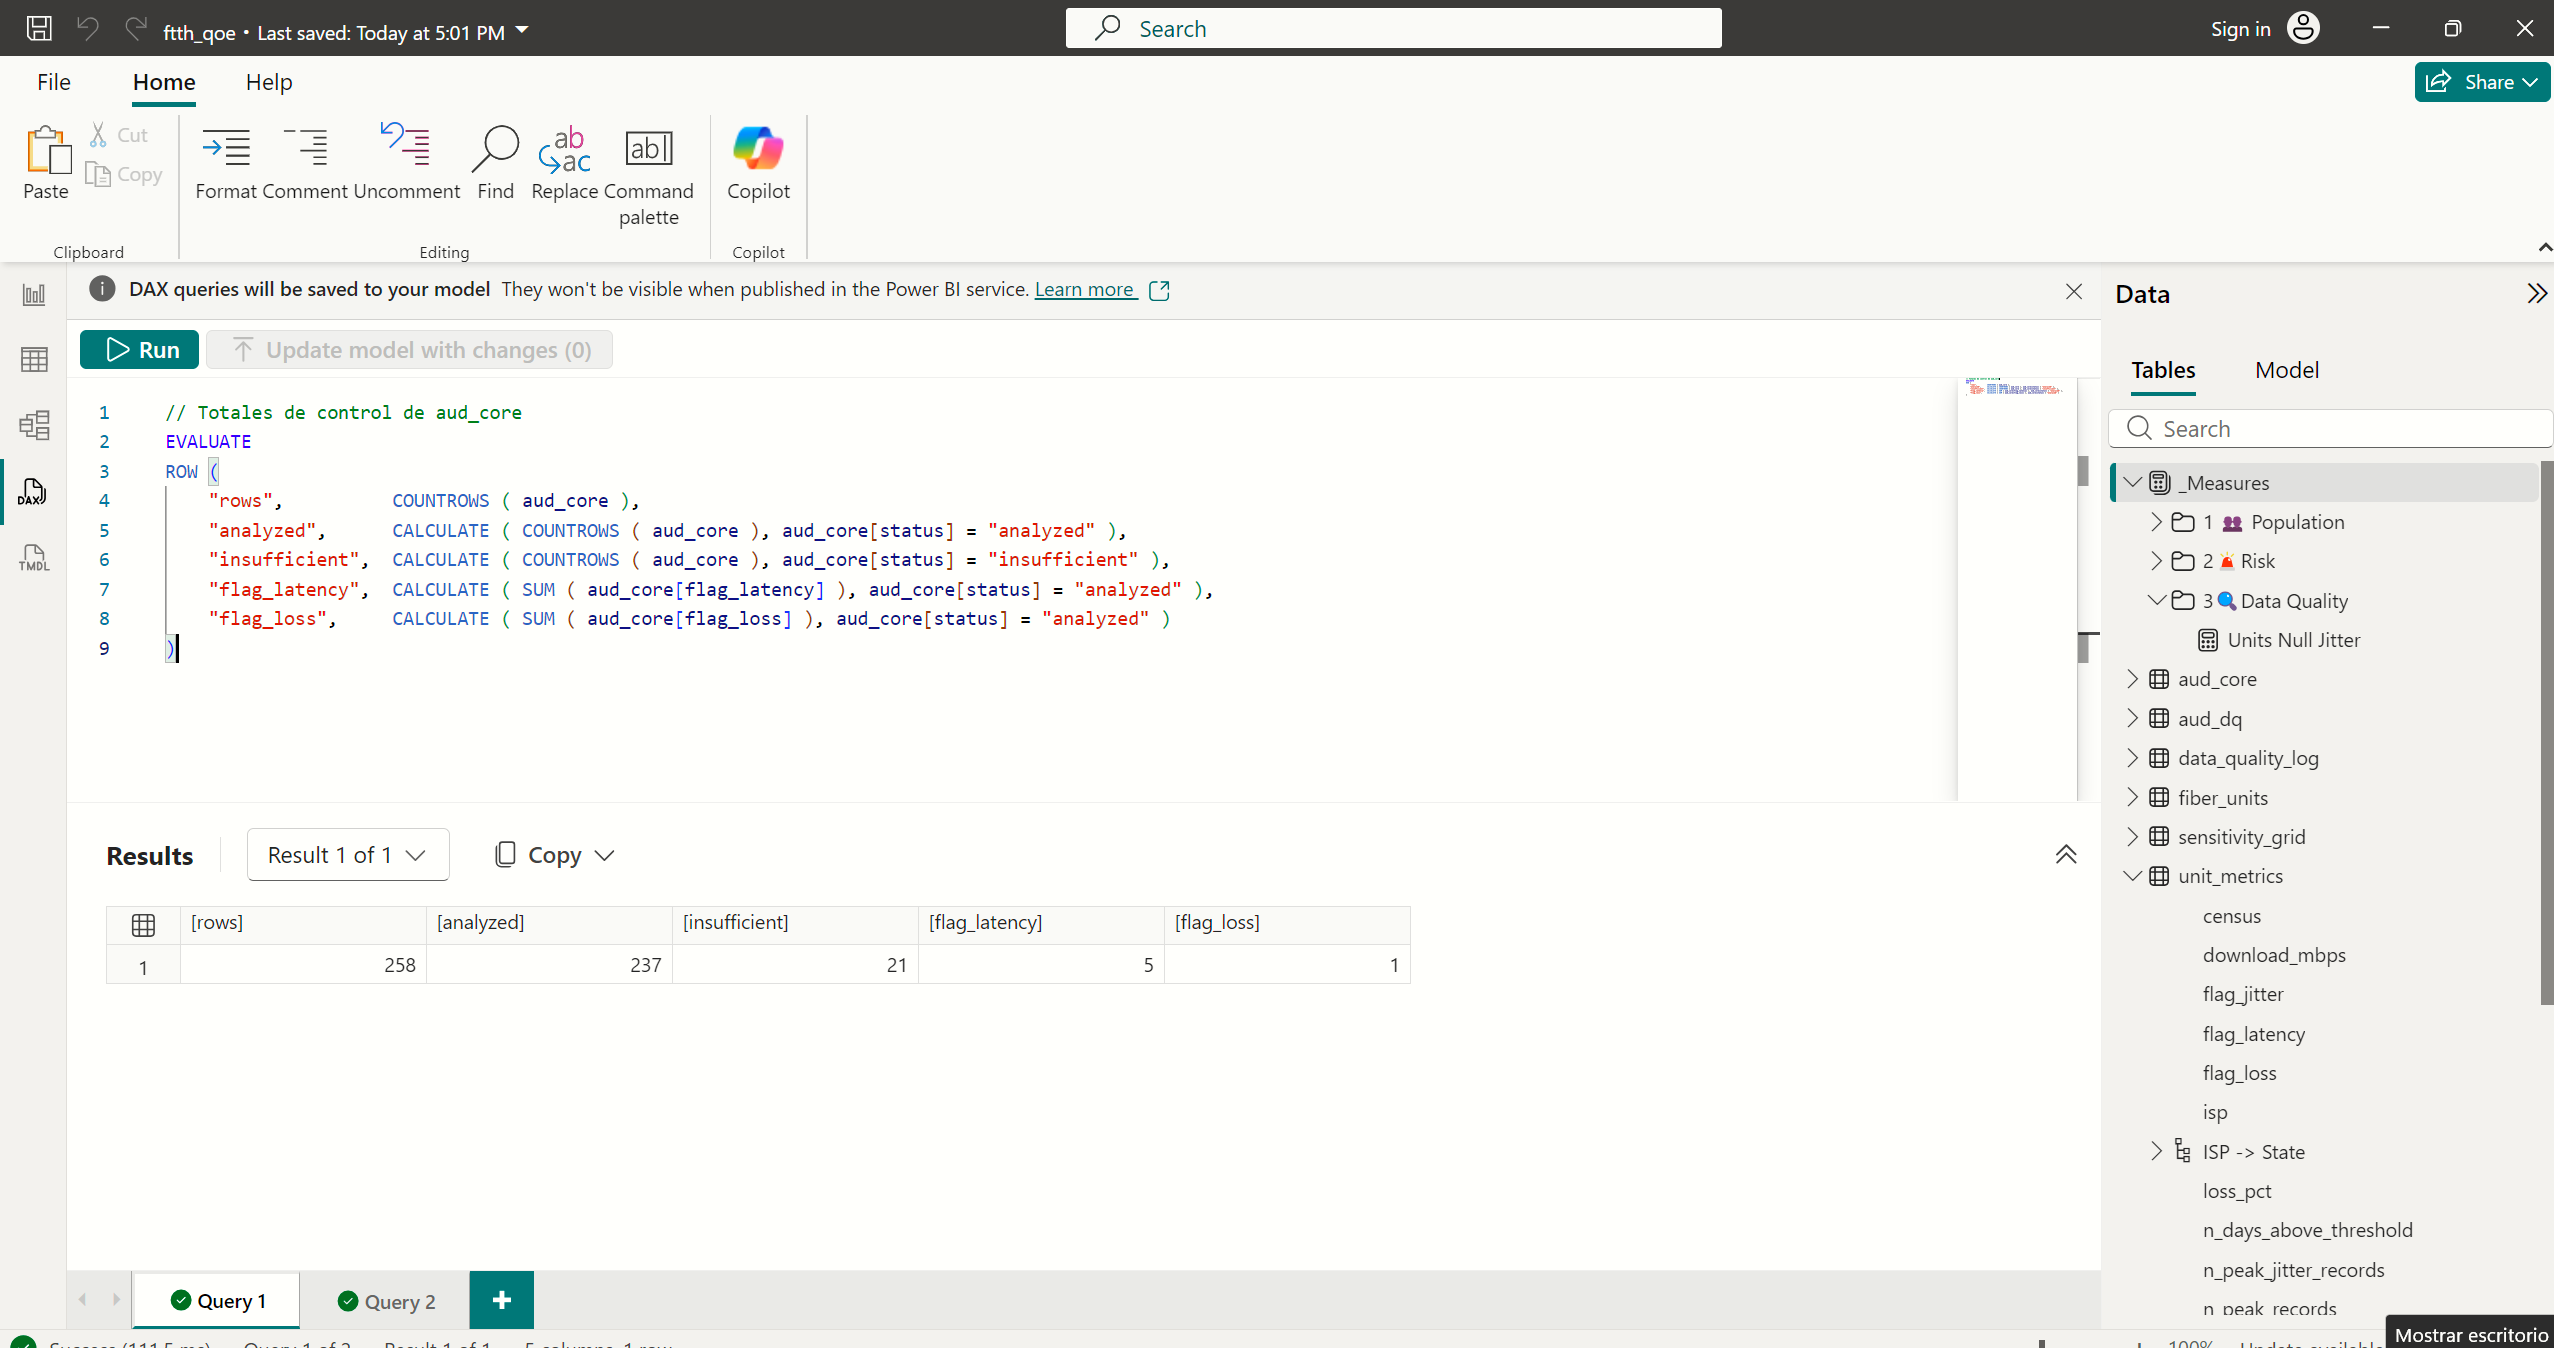
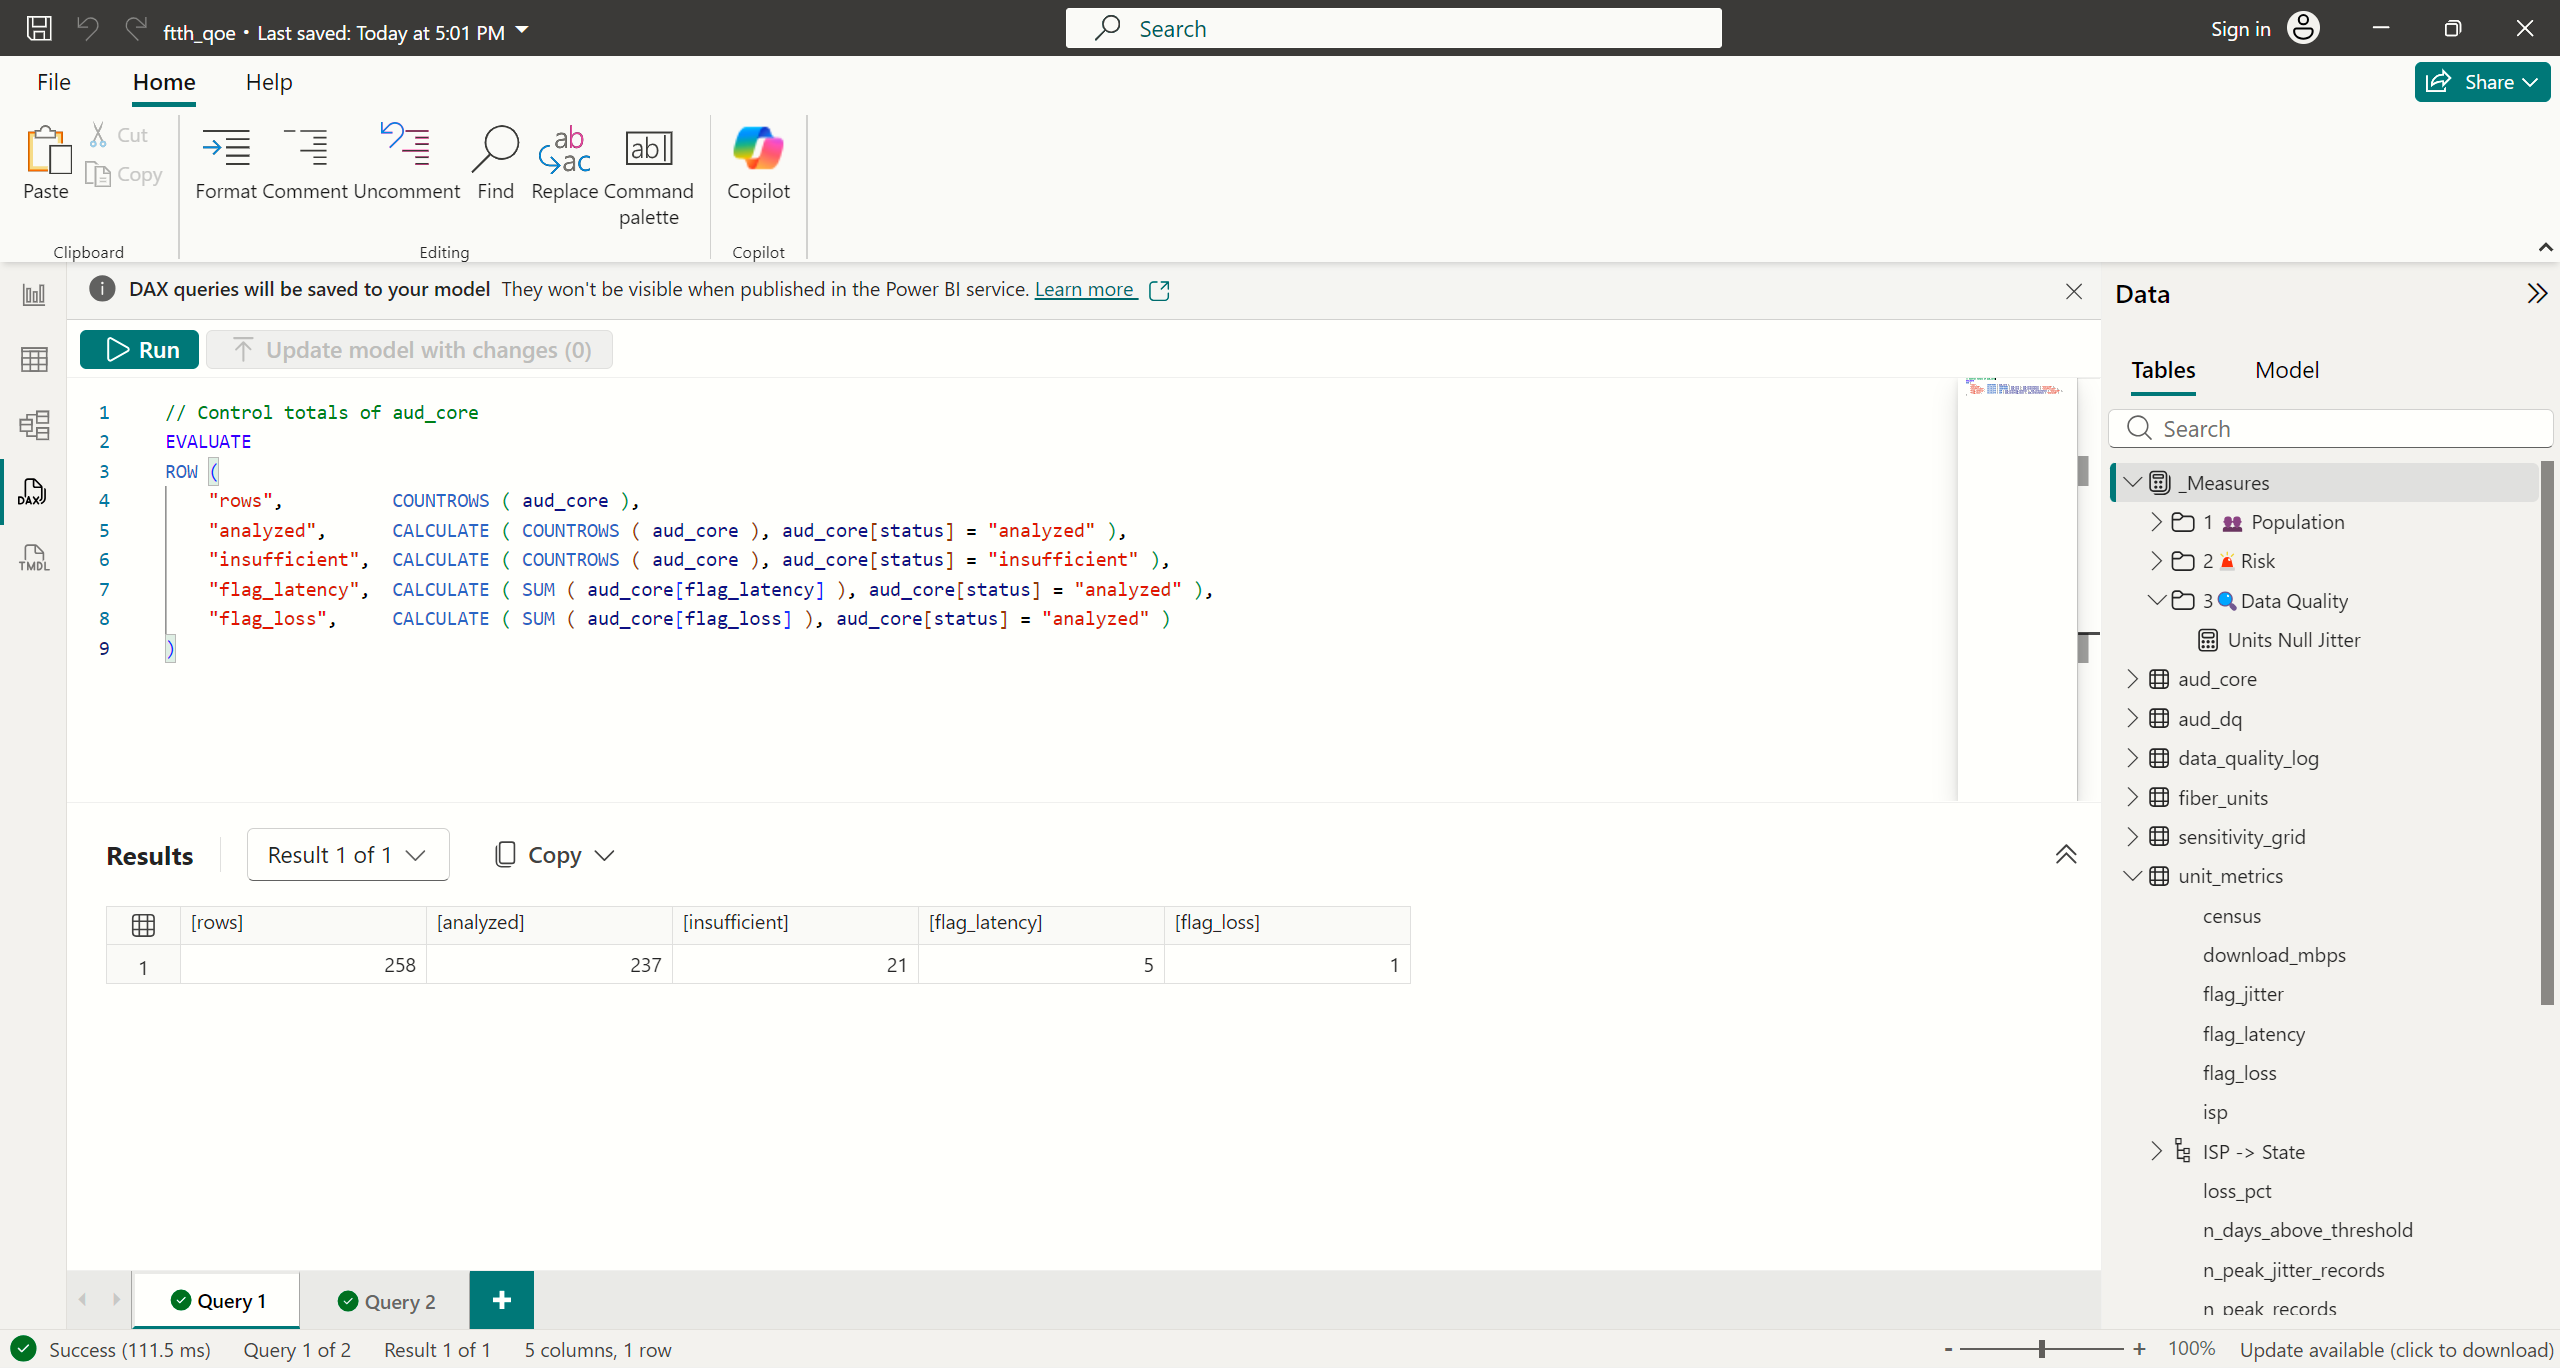
updated powerbi_implementation.md with evidence

diff --git a/docs/powerbi_implementation.md b/docs/powerbi_implementation.md
@@ -5,8 +5,8 @@ Living document. It records what was built in Power BI, the reason behind each s
 - **Tool:** Power BI Desktop 2.157.1354.0 (64-bit)
 - **Project file:** `powerbi/ftth_qoe.pbix`
 - **Last updated:** 2026-10-21
-- **Status:** Sessions 1-3 complete (load, model, base measures). Sessions 4A-4B complete (latency cleaning audit; peak window, primary server, P95 latency, loss, flags). Sessions 5-9 pending.
-- **Images:** `docs/img/powerbi/` (`01_unit_metrics_load.png`, `02_unit_metrics_null_jitter.png`, `03_model_view_flat.png`, `04_hierarchy_matrix.png`, `05_measures_check.png`, `06_audit_data_quality_check.png`, `07_audit_core_totals.png`, `08_audit_core_control_units.png`; numbered in order of appearance, matching Figures 1-8)
+- **Status:** Sessions 1-3 complete (load, model, base measures). Sessions 4A-5B complete (latency cleaning audit; peak window, primary server, P95 latency, loss; jitter cleaning, P95 jitter and minimum-records rule). Sessions 6-9 pending.
+- **Images:** `docs/img/powerbi/` (`01_unit_metrics_load.png`, `02_unit_metrics_null_jitter.png`, `03_model_view_flat.png`, `04_hierarchy_matrix.png`, `05_measures_check.png`, `06_audit_data_quality_check.png`, `07_audit_core_totals.png`, `08_audit_core_control_units.png`, `09_audit_jitter_dq_check.png`, `10_audit_jitter_conflicts.png`, `11_audit_units_totals.png`, `12_audit_units_jitter_controls.png`; numbered in order of appearance, matching Figures 1-12)
 
 ## 1. Role of Power BI in this project
 
@@ -218,7 +218,7 @@ Each query is created with *Home > New Source > Blank Query*, renamed in *Query 
 | `aud_lat_peak` | Peak window 19:00-22:59 (D-03) | No |
 | `aud_primary` | Primary server per unit (D-04, D-06) | No |
 | `aud_lat_metrics` | Records, P95 latency and loss on the primary server | No |
-| `aud_core` | Status (analyzed / insufficient) and flags per unit | Yes |
+| `aud_core` | Status (analyzed / insufficient) and flags per unit | Yes (until session 5B, see 8.2) |
 
 **`aud_lat_peak`**
 ```m
@@ -323,7 +323,207 @@ The threshold edge also behaves as specified: a unit with 49 peak records is `in
 
 **Result.** Power Query reproduces the pipeline totals and both control units. Per-unit differences, if any, are reported in session 7.
 
-## 8. Modelling notes
+## 8. Session 5 - Audit of jitter (Prepare the data)
+
+### 8.1 Session 5A - Jitter cleaning
+
+**Goal.** Rebuild the jitter cleaning of the pipeline (period, validity, duplicates D-05) from `data/interim/udpjitter_ftth.csv`, with the same staging design as 4A, and reconcile the row counts with the pipeline data-quality log. The same limits apply: the file is the output of `step_1.py`, the folder is gitignored, and step 1 itself is not audited.
+
+**Differences from latency.**
+- Validity rule: `jitter_up` and `jitter_down` must both be non-null and >= 0 (the latency rules on `rtt_avg`, successes and failures do not apply).
+- Unlike latency, jitter has one conflicting duplicate group (same key, different values), so `aud_jit_conflicts` is not empty.
+
+| Query | Logic | Loaded |
+| :--- | :--- | :-: |
+| `aud_jit_raw` | CSV read (UTF-8), headers promoted, explicit types with culture `en-US` | No |
+| `aud_jit_period` | `dtime` in [2022-09-12, 2022-11-01) (D-01) | No |
+| `aud_jit_valid` | jitter up and down not null and >= 0 | No |
+| `aud_jit_distinct` | `Table.Distinct` on all columns (exact duplicates, D-05) | No |
+| `aud_jit_conflicts` | keys (`unit_id`, `dtime`, `target`) with more than 1 row after exact dedup | No |
+| `aud_jit_clean` | `aud_jit_distinct` minus conflicting keys (Left Anti join) | No |
+| `aud_dq_jit` | `Table.RowCount` of each stage | Yes |
+
+`aud_dq_jit` is a separate query instead of an extension of `aud_dq`, so the verified latency audit is not modified.
+
+**`aud_jit_raw`**
+```m
+let
+    Source = Csv.Document(File.Contents(RepoPath & "data\interim\udpjitter_ftth.csv"),
+        [Delimiter = ",", Encoding = 65001, QuoteStyle = QuoteStyle.Csv]),
+    Promoted = Table.PromoteHeaders(Source, [PromoteAllScalars = true]),
+    Result = Table.TransformColumnTypes(Promoted, {
+        {"unit_id", Int64.Type}, {"dtime", type datetime}, {"target", type text},
+        {"jitter_up", type number}, {"jitter_down", type number}}, "en-US")
+in
+    Result
+```
+
+**`aud_jit_period`**
+```m
+let
+    Source = aud_jit_raw,
+    Result = Table.SelectRows(Source, each [dtime] >= #datetime(2022,9,12,0,0,0) and [dtime] < #datetime(2022,11,1,0,0,0))
+in
+    Result
+```
+
+**`aud_jit_valid`**
+```m
+let
+    Source = aud_jit_period,
+    // invalid: null or negative jitter in either direction
+    Result = Table.SelectRows(Source, each [jitter_up] <> null and [jitter_down] <> null and [jitter_up] >= 0 and [jitter_down] >= 0)
+in
+    Result
+```
+
+**`aud_jit_distinct`**
+```m
+let
+    Source = aud_jit_valid,
+    // exact duplicates only: all columns must match (D-05)
+    Result = Table.Distinct(Source)
+in
+    Result
+```
+
+**`aud_jit_conflicts`**
+```m
+let
+    Source = aud_jit_distinct,
+    Grouped = Table.Group(Source, {"unit_id", "dtime", "target"}, {{"n", each Table.RowCount(_), Int64.Type}}),
+    Result = Table.SelectRows(Grouped, each [n] > 1)
+in
+    Result
+```
+
+**`aud_jit_clean`**
+```m
+let
+    Keys = {"unit_id", "dtime", "target"},
+    Joined = Table.NestedJoin(aud_jit_distinct, Keys, aud_jit_conflicts, Keys, "conf", JoinKind.LeftAnti),
+    Result = Table.RemoveColumns(Joined, {"conf"})
+in
+    Result
+```
+
+**`aud_dq_jit`**
+```m
+let
+    Rows = {
+        {"rows_read", Table.RowCount(aud_jit_raw)},
+        {"rows_in_analysis_period", Table.RowCount(aud_jit_period)},
+        {"rows_valid", Table.RowCount(aud_jit_valid)},
+        {"rows_after_exact_dedup", Table.RowCount(aud_jit_distinct)},
+        {"duplicate_conflicting_groups", Table.RowCount(aud_jit_conflicts)},
+        {"rows_after_cleaning", Table.RowCount(aud_jit_clean)}
+    },
+    Result = Table.FromRows(Rows, type table [stage = text, rows = Int64.Type])
+in
+    Result
+```
+
+**Verification.**
+
+| Stage | Pipeline log | `aud_dq_jit` |
+| :--- | :-: | :-: |
+| rows_read / in period / valid | 152,730 | 152,730 |
+| rows_after_exact_dedup | 152,726 | 152,726 |
+| duplicate_conflicting_groups | 1 | 1 |
+| rows_after_cleaning | 152,724 | 152,724 |
+
+![Audit jitter data-quality check: aud_dq_jit](img/powerbi/09_audit_jitter_dq_check.png)
+
+*Figure 9. `aud_dq_jit` row counts per stage (staging queries in italics are not loaded).*
+
+![Audit jitter conflicts: aud_jit_conflicts](img/powerbi/10_audit_jitter_conflicts.png)
+
+*Figure 10. The only conflicting group: unit 943232, server `sp1-vm-atlanta-us.samknows.com`, 2022-10-19 21:12:17, 2 rows.*
+
+**Result.** Power Query reproduces the pipeline cleaning for jitter: 4 exact extra rows, 1 conflicting group and 2 rows dropped (152,726 - 2 = 152,724). The conflicting pair falls inside the peak window (hour 21), so Power BI and the pipeline drop it at the same point.
+
+### 8.2 Session 5B - P95 jitter and minimum-records rule (D-06, D-07)
+
+**Goal.** Compute the per-unit jitter metrics on the primary server of the latency file and apply the minimum of peak jitter records.
+
+**Parameters** (created as in 7.1, type Decimal Number):
+
+| Parameter | Value | Description |
+| :--- | :-: | :--- |
+| `N_JIT_MIN` | 50 | Minimum peak-window jitter records on the primary server required to report P95 jitter (D-07). Below it, jitter is null, never 0. Mirrors `metrics.jitter.min_peak_records` in `config.yaml`. |
+| `THR_JITTER_MS` | 5 | P95 jitter threshold in ms during the peak window. A unit is flagged when P95 is strictly greater. Mirrors the jitter threshold in `config.yaml`. |
+
+`N_JIT_MIN` is separate from `N_MIN` because the configuration keeps them as independent rules, although both are 50 today.
+
+**`aud_jit_metrics`**
+```m
+let
+    // jitter peak window (D-03), same hours as latency
+    Peak = Table.SelectRows(aud_jit_clean, each Time.Hour([dtime]) >= 19 and Time.Hour([dtime]) < 23),
+    // D-06: only the primary server chosen from the LATENCY file
+    Joined = Table.NestedJoin(Peak, {"unit_id", "target"}, aud_primary, {"unit_id", "primary_target"}, "p", JoinKind.Inner),
+    OnPrimary = Table.RemoveColumns(Joined, {"p"}),
+    // jitter_up / jitter_down in us -> average -> ms
+    WithMs = Table.AddColumn(OnPrimary, "jit_ms", each ([jitter_up] + [jitter_down]) / 2 / 1000, type number),
+    Result = Table.Group(WithMs, {"unit_id"}, {
+        {"n_peak_jitter_records", each Table.RowCount(_), Int64.Type},
+        {"p95_jitter_raw", each List.Percentile([jit_ms], 0.95, [PercentileMode = PercentileMode.ExcelInc]), type number}
+    })
+in
+    Result
+```
+The primary server comes from the latency file (D-06); the jitter file does not get its own. `p95_jitter_raw` does not apply the minimum yet; that rule is a visible step in `aud_units`.
+
+**`aud_units`**
+```m
+let
+    // left join: units without jitter records on the primary server must stay
+    Joined = Table.NestedJoin(aud_core, {"unit_id"}, aud_jit_metrics, {"unit_id"}, "j", JoinKind.LeftOuter),
+    Expanded = Table.ExpandTableColumn(Joined, "j", {"n_peak_jitter_records", "p95_jitter_raw"}),
+    // a count with no records is a real 0
+    Counts = Table.ReplaceValue(Expanded, null, 0, Replacer.ReplaceValue, {"n_peak_jitter_records"}),
+    // D-07: P95 only with enough records, otherwise null (never 0)
+    P95 = Table.AddColumn(Counts, "p95_jitter_ms",
+        each if [n_peak_jitter_records] >= N_JIT_MIN then [p95_jitter_raw] else null, type nullable number),
+    // null never raises a flag; the guard is needed because null > 5 returns null in M
+    Flag = Table.AddColumn(P95, "flag_jitter",
+        each if [p95_jitter_ms] <> null and [p95_jitter_ms] > THR_JITTER_MS then 1 else 0, Int64.Type),
+    Result = Table.RemoveColumns(Flag, {"p95_jitter_raw"})
+in
+    Result
+```
+
+**Load.** `aud_jit_metrics` and `aud_core` have *Enable load* off (`aud_units` contains `aud_core`). `aud_units` is loaded (258 rows) and its numeric columns are set to *Don't summarize*. Figures 7 and 8 were taken when `aud_core` was loaded; from now on the audit table is `aud_units`.
+
+**Verification (DAX query view).**
+```dax
+EVALUATE
+ROW (
+    "rows",        COUNTROWS ( aud_units ),
+    "null_jitter", CALCULATE ( COUNTROWS ( aud_units ), aud_units[status] = "analyzed", aud_units[p95_jitter_ms] = BLANK () ),
+    "flag_jitter", CALCULATE ( SUM ( aud_units[flag_jitter] ), aud_units[status] = "analyzed" )
+)
+```
+
+| Control | Pipeline reference | `aud_units` |
+| :--- | :-: | :-: |
+| Units | 258 | 258 |
+| Analyzed units with null jitter | 93 | 93 |
+| Jitter flags (analyzed) | 0 | 0 |
+| Unit 925942 | 36 peak jitter records, null P95 | 36, null |
+| Unit 925886 | 68 records, P95 0.3562 | 68, 0.36 |
+
+![aud_units totals in DAX query view](img/powerbi/11_audit_units_totals.png)
+
+*Figure 11. Totals of `aud_units`: 258 units, 93 analyzed units with null jitter, 0 jitter flags.*
+
+![aud_units jitter control units in DAX query view](img/powerbi/12_audit_units_jitter_controls.png)
+
+*Figure 12. Control units 925942 (below the minimum, null jitter) and 925886 (P95 0.36 ms).*
+
+**Result.** Power Query reproduces the jitter rule of the pipeline: null below 50 peak jitter records, never 0, and no jitter flag in the base case (D-07, D-09). Per-unit differences, if any, are reported in session 7.
+
+## 9. Modelling notes
 
 - **Flat by design.** `unit_metrics` is the single fact table (237 analyzed units). ISP, state and Whitebox model are text columns in the same table.
 - **Population denominator.** The 258-unit population is computed with a measure (analyzed + `units_insufficient`), not through a relationship.
@@ -332,15 +532,15 @@ The threshold edge also behaves as specified: a unit with 49 peak records is `in
 - **Slicer limitation.** `units_insufficient` is reached only through `TREATAS` on `isp` and `state`. A slicer on any other `unit_metrics` column (Whitebox model, census, speed tiers) filters analyzed units but not insufficient ones, so `Insufficient Units` and `Population Units` ignore it. Population by ISP and state is exact; other cuts need a dimension table.
 - **Trade-off.** A star schema would enable cross-filtering and reuse; out of scope here.
 
-## 9. Roadmap
+## 10. Roadmap
 
 | Session | Content | PL-300 domain |
 | :-: | :--- | :--- |
 | 3 | Base DAX measures (analyzed, insufficient, at risk, % at risk) - **done** | Model the data |
 | 4A | Audit phase 1a: latency cleaning, row counts - **done** | Prepare the data |
 | 4B | Audit phase 1b: peak window, primary server, P95 latency, loss, flags - **done** | Prepare the data |
-| 5 | Audit phase 2: jitter with minimum 50 records | Prepare the data |
-| 6 | Audit phase 3: D-10 columns | Prepare the data |
+| 5 | Audit phase 2: jitter cleaning (5A), P95 jitter with minimum 50 records (5B) - **done** | Prepare the data |
+| 6 | Audit phase 3: `risk_flag`, `risk_severe` and D-10 columns | Prepare the data |
 | 7 | Per-`Unit ID` reconciliation -> `docs/reconciliation.md` | Analyze the data |
 | 8 | Report pages and narrative | Visualize and analyze |
 | 9 | Performance, documentation, publishing | Manage and secure |
